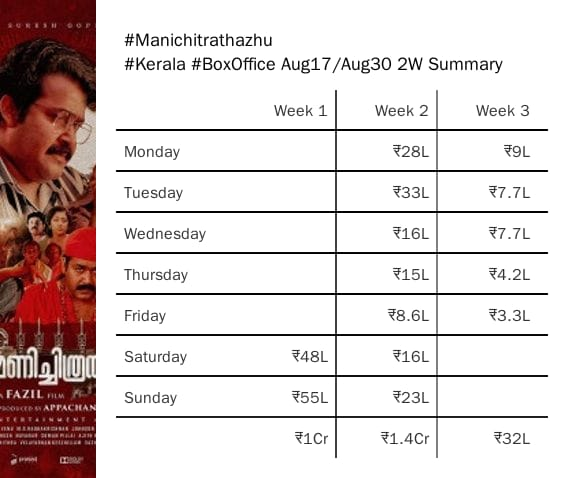
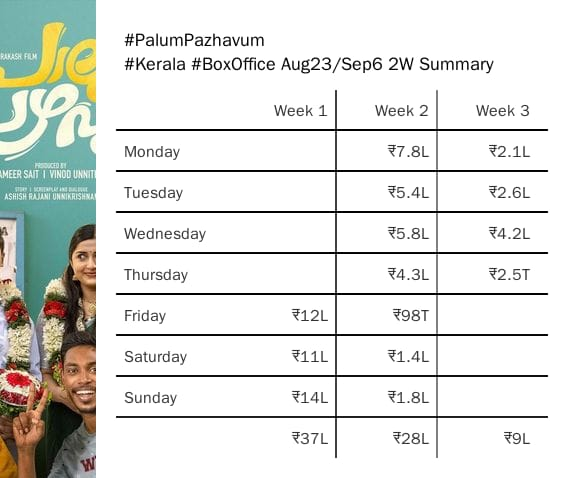
reddit json update

diff --git a/weekly.html.html b/weekly.html.html
@@ -37,7 +37,7 @@
   </style>
 </head>
 
-<body class="bg-white" x-data="{ movies: [] }" x-init='movies = [{"bg":"#f8f808","fg":"black","image":"https://i.imgur.com/UJNnYQJ.jpeg?55d310","sum":"5.5Cr"},{"bg":"#483818","fg":"white","image":"https://i.imgur.com/w7YE9k9.jpeg?15f8a1","sum":"2.1Cr"},{"bg":"#080808","fg":"white","image":"https://i.imgur.com/5e5UjpH.jpeg?8ccf8d","sum":"59L"},{"bg":"#281808","fg":"white","image":"https://i.imgur.com/e7i2nEr.jpeg?5ccb34","sum":"45L"},{"bg":"#580808","fg":"white","image":"https://i.imgur.com/rDbyrVC.jpeg?5fc91d","sum":"43L"}]'>
+<body class="bg-white" x-data="{ movies: [] }" x-init='movies = [{"bg":"#d8e8e8","fg":"black","image":"https://i.imgur.com/rla7HUM.jpeg?3114c0","sum":"9.8Cr"},{"bg":"#f8f808","fg":"black","image":"https://i.imgur.com/Y4PjWkz.jpeg?7b48ee","sum":"2.1Cr"},{"bg":"#382818","fg":"white","image":"https://i.imgur.com/bxk1NBi.jpeg?b2b9d5","sum":"78L"},{"bg":"#080808","fg":"white","image":"https://i.imgur.com/R5gOeO8.jpeg?1250f4","sum":"61L"},{"bg":"#281808","fg":"white","image":"https://i.imgur.com/5uPeNF5.jpeg?ef2021","sum":"31L"}]'>
   <div class="flex justify-center">
     <div class="flex flex-wrap" id="screenshot">
       <template x-for="(v, i) in movies">

diff --git a/weekly.individual.js b/weekly.individual.js
@@ -21,10 +21,10 @@ const collageItemWidth = 96;
 
 (async () => {
   const id = "";
-  const name = /manichitrathazhu/i;
-  const displayName = "Manichitrathazhu";
-  const start_date = moment("2024-08-17", ["YYYY-MM-DD"]);
-  const end_date = moment("2024-08-30", ["YYYY-MM-DD"]);
+  const name = /pazhavum/i;
+  const displayName = "PalumPazhavum";
+  const start_date = moment("2024-08-23", ["YYYY-MM-DD"]);
+  const end_date = moment("2024-09-06", ["YYYY-MM-DD"]);
 
   await sync(csvPath); // git clone/pull
   await syncFileInfo(csvPath); // sync folder/file metadata to nedb
@@ -44,7 +44,7 @@ const collageItemWidth = 96;
   let weekIndex = 1;
   for (const i of await db
     .find({
-      date: { $gte: start_date.toDate(), $lte: end_date.toDate() },
+      date: { $gte: start_date.toDate(), $lt: end_date.toDate() },
       ...(id ? { id } : { name }),
     })
     .sort({ date: 1 })) {

diff --git a/weekly.js b/weekly.js
@@ -19,8 +19,8 @@ const json = fs.existsSync(json_path)
 const collageMax = 5;
 
 (async () => {
-  const start_date = moment("2024-08-26", ["YYYY-MM-DD"]);
-  const end_date = moment("2024-09-01", ["YYYY-MM-DD"]);
+  const start_date = moment("2024-09-02", ["YYYY-MM-DD"]);
+  const end_date = moment("2024-09-09", ["YYYY-MM-DD"]);
 
   await sync(csvPath); // git clone/pull
   await syncFileInfo(csvPath); // sync folder/file metadata to nedb
@@ -28,7 +28,7 @@ const collageMax = 5;
   // aggregate
   const data = {};
   for (const i of await db
-    .find({ date: { $gte: start_date.toDate(), $lte: end_date.toDate() } })
+    .find({ date: { $gte: start_date.toDate(), $lt: end_date.toDate() } })
     .sort({ date: 1 })) {
     const file = path.resolve(
       csvPath,

diff --git a/reddit.js b/reddit.js
@@ -142,6 +142,6 @@ const { client } = require("./config/snoowrap.js");
       fs.writeFileSync(config_path, JSON.stringify(configs, undefined, 2));
     } else throw Error("invalid config");
 
-    await new Promise((r) => setTimeout(r, 60000));
+    await new Promise((r) => setTimeout(r, 1000 * 3));
   }
 })();
